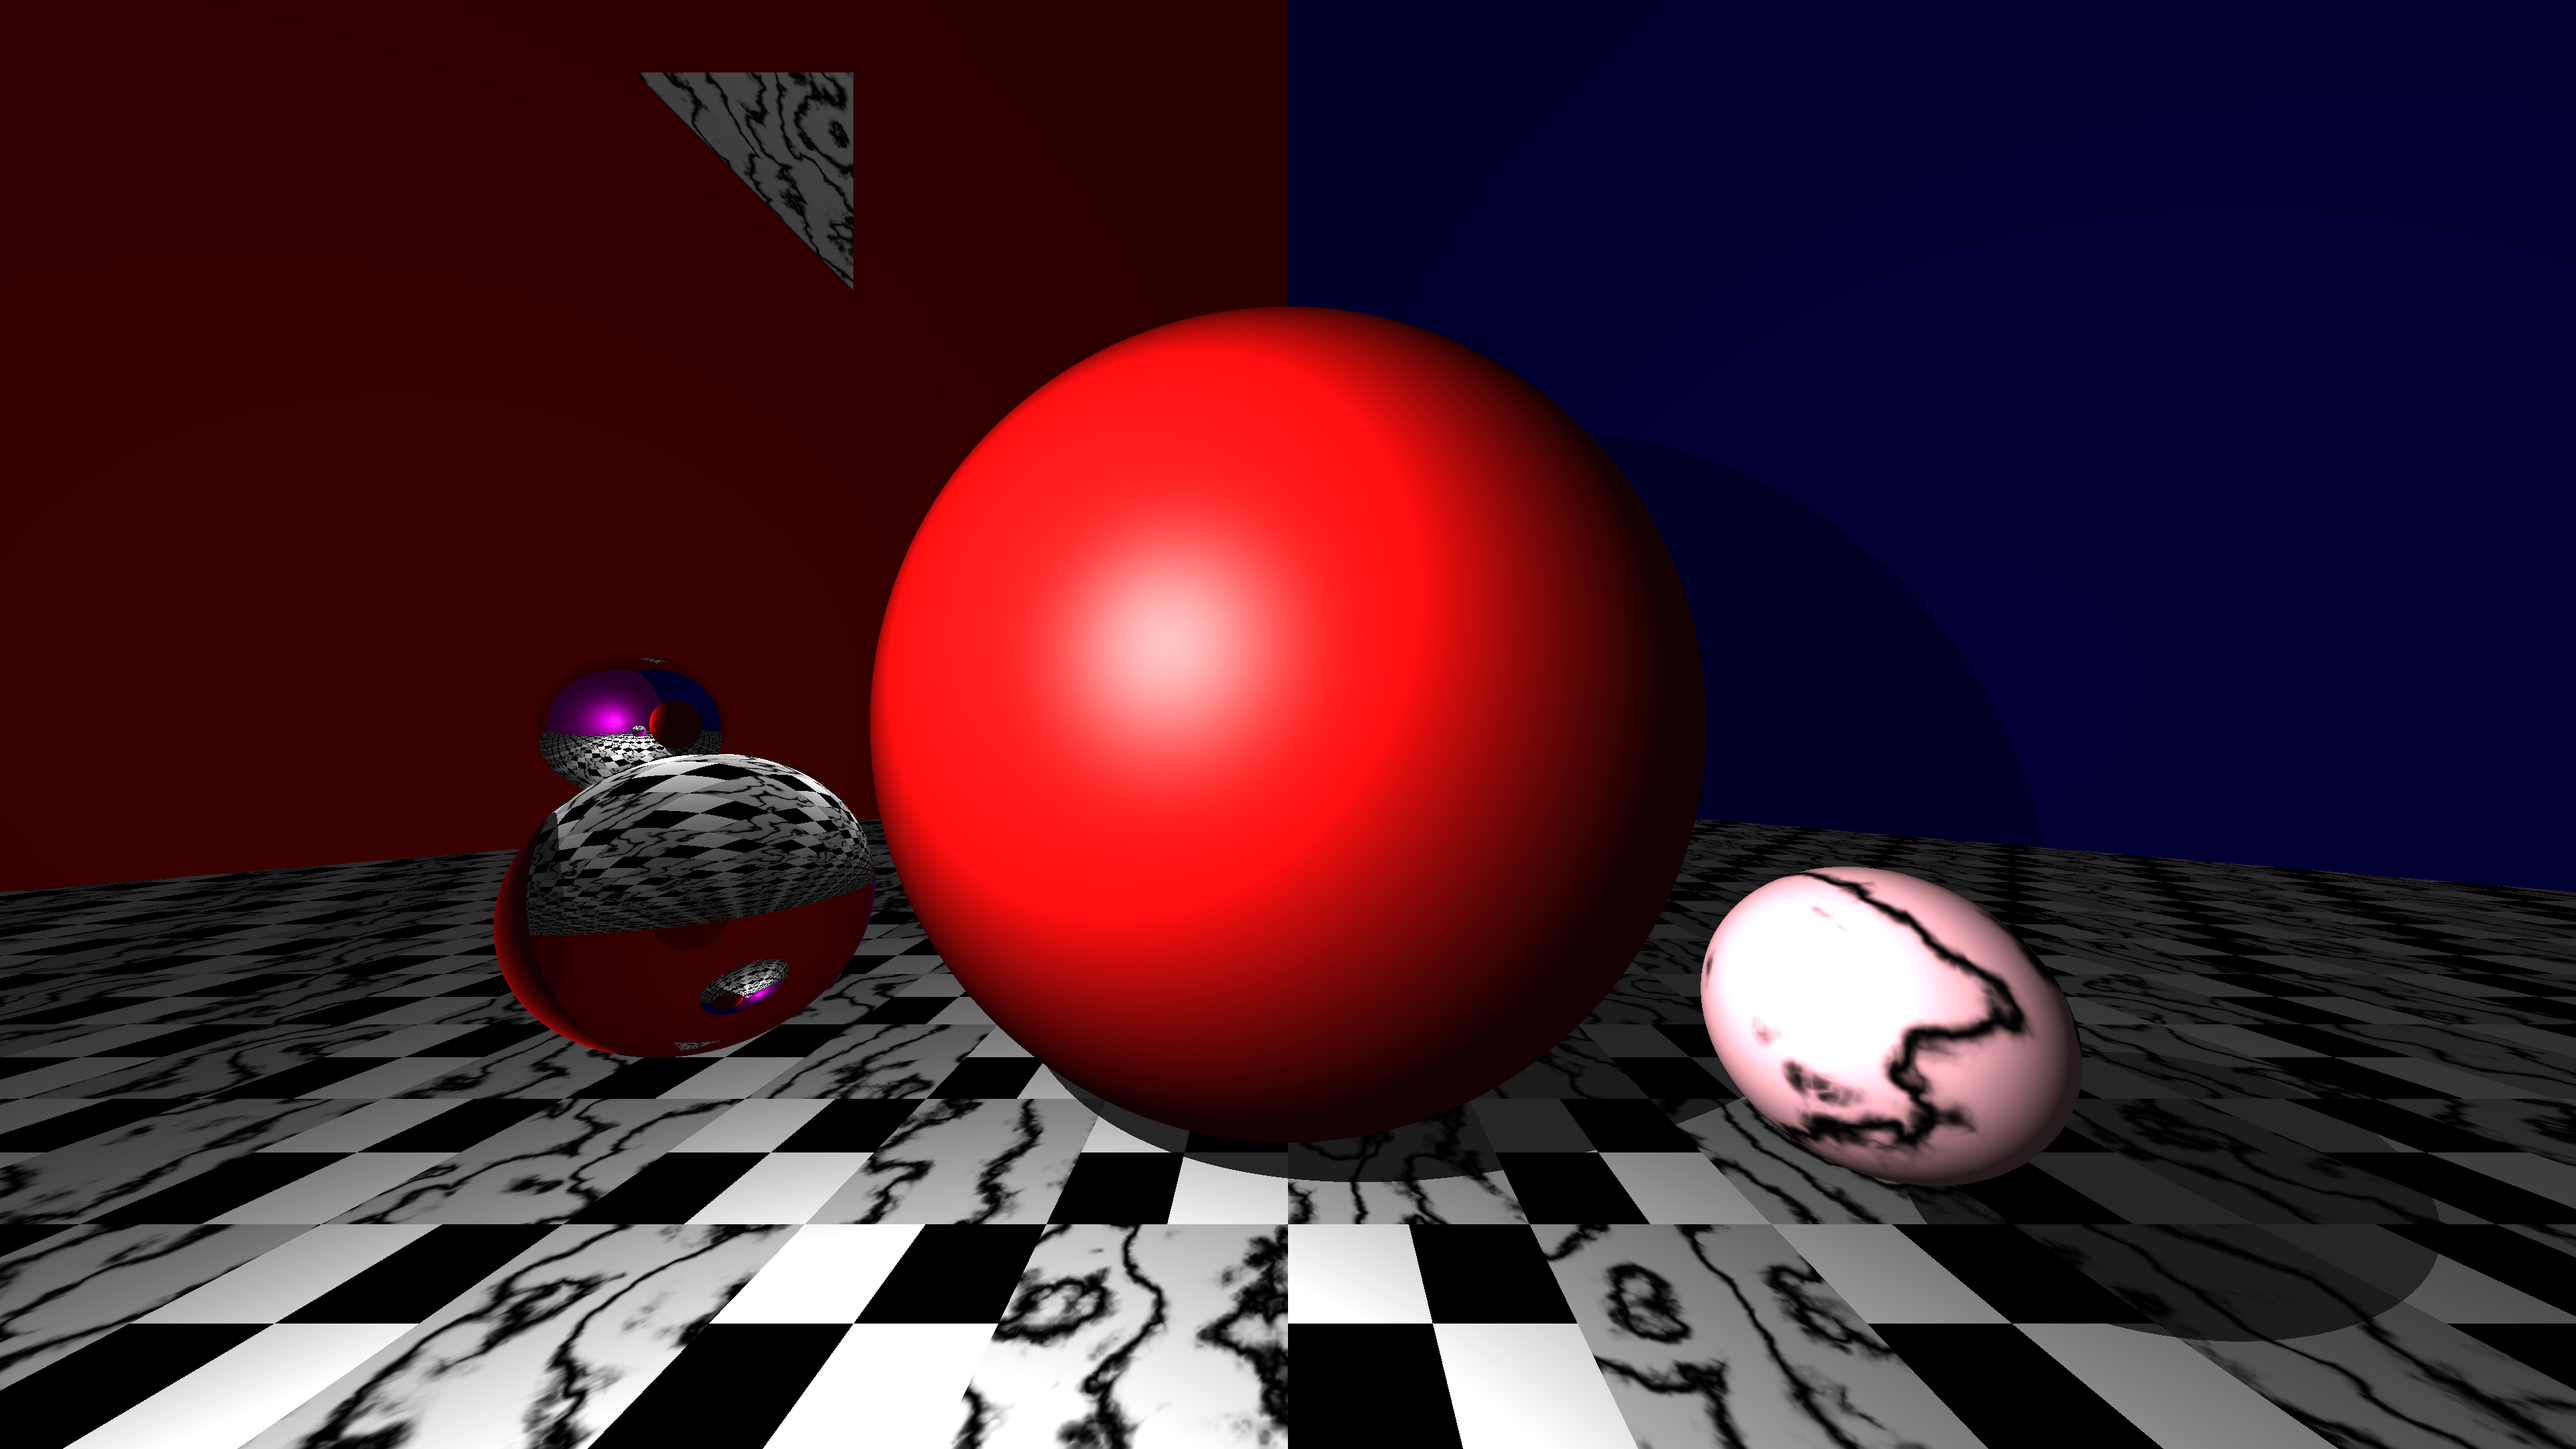
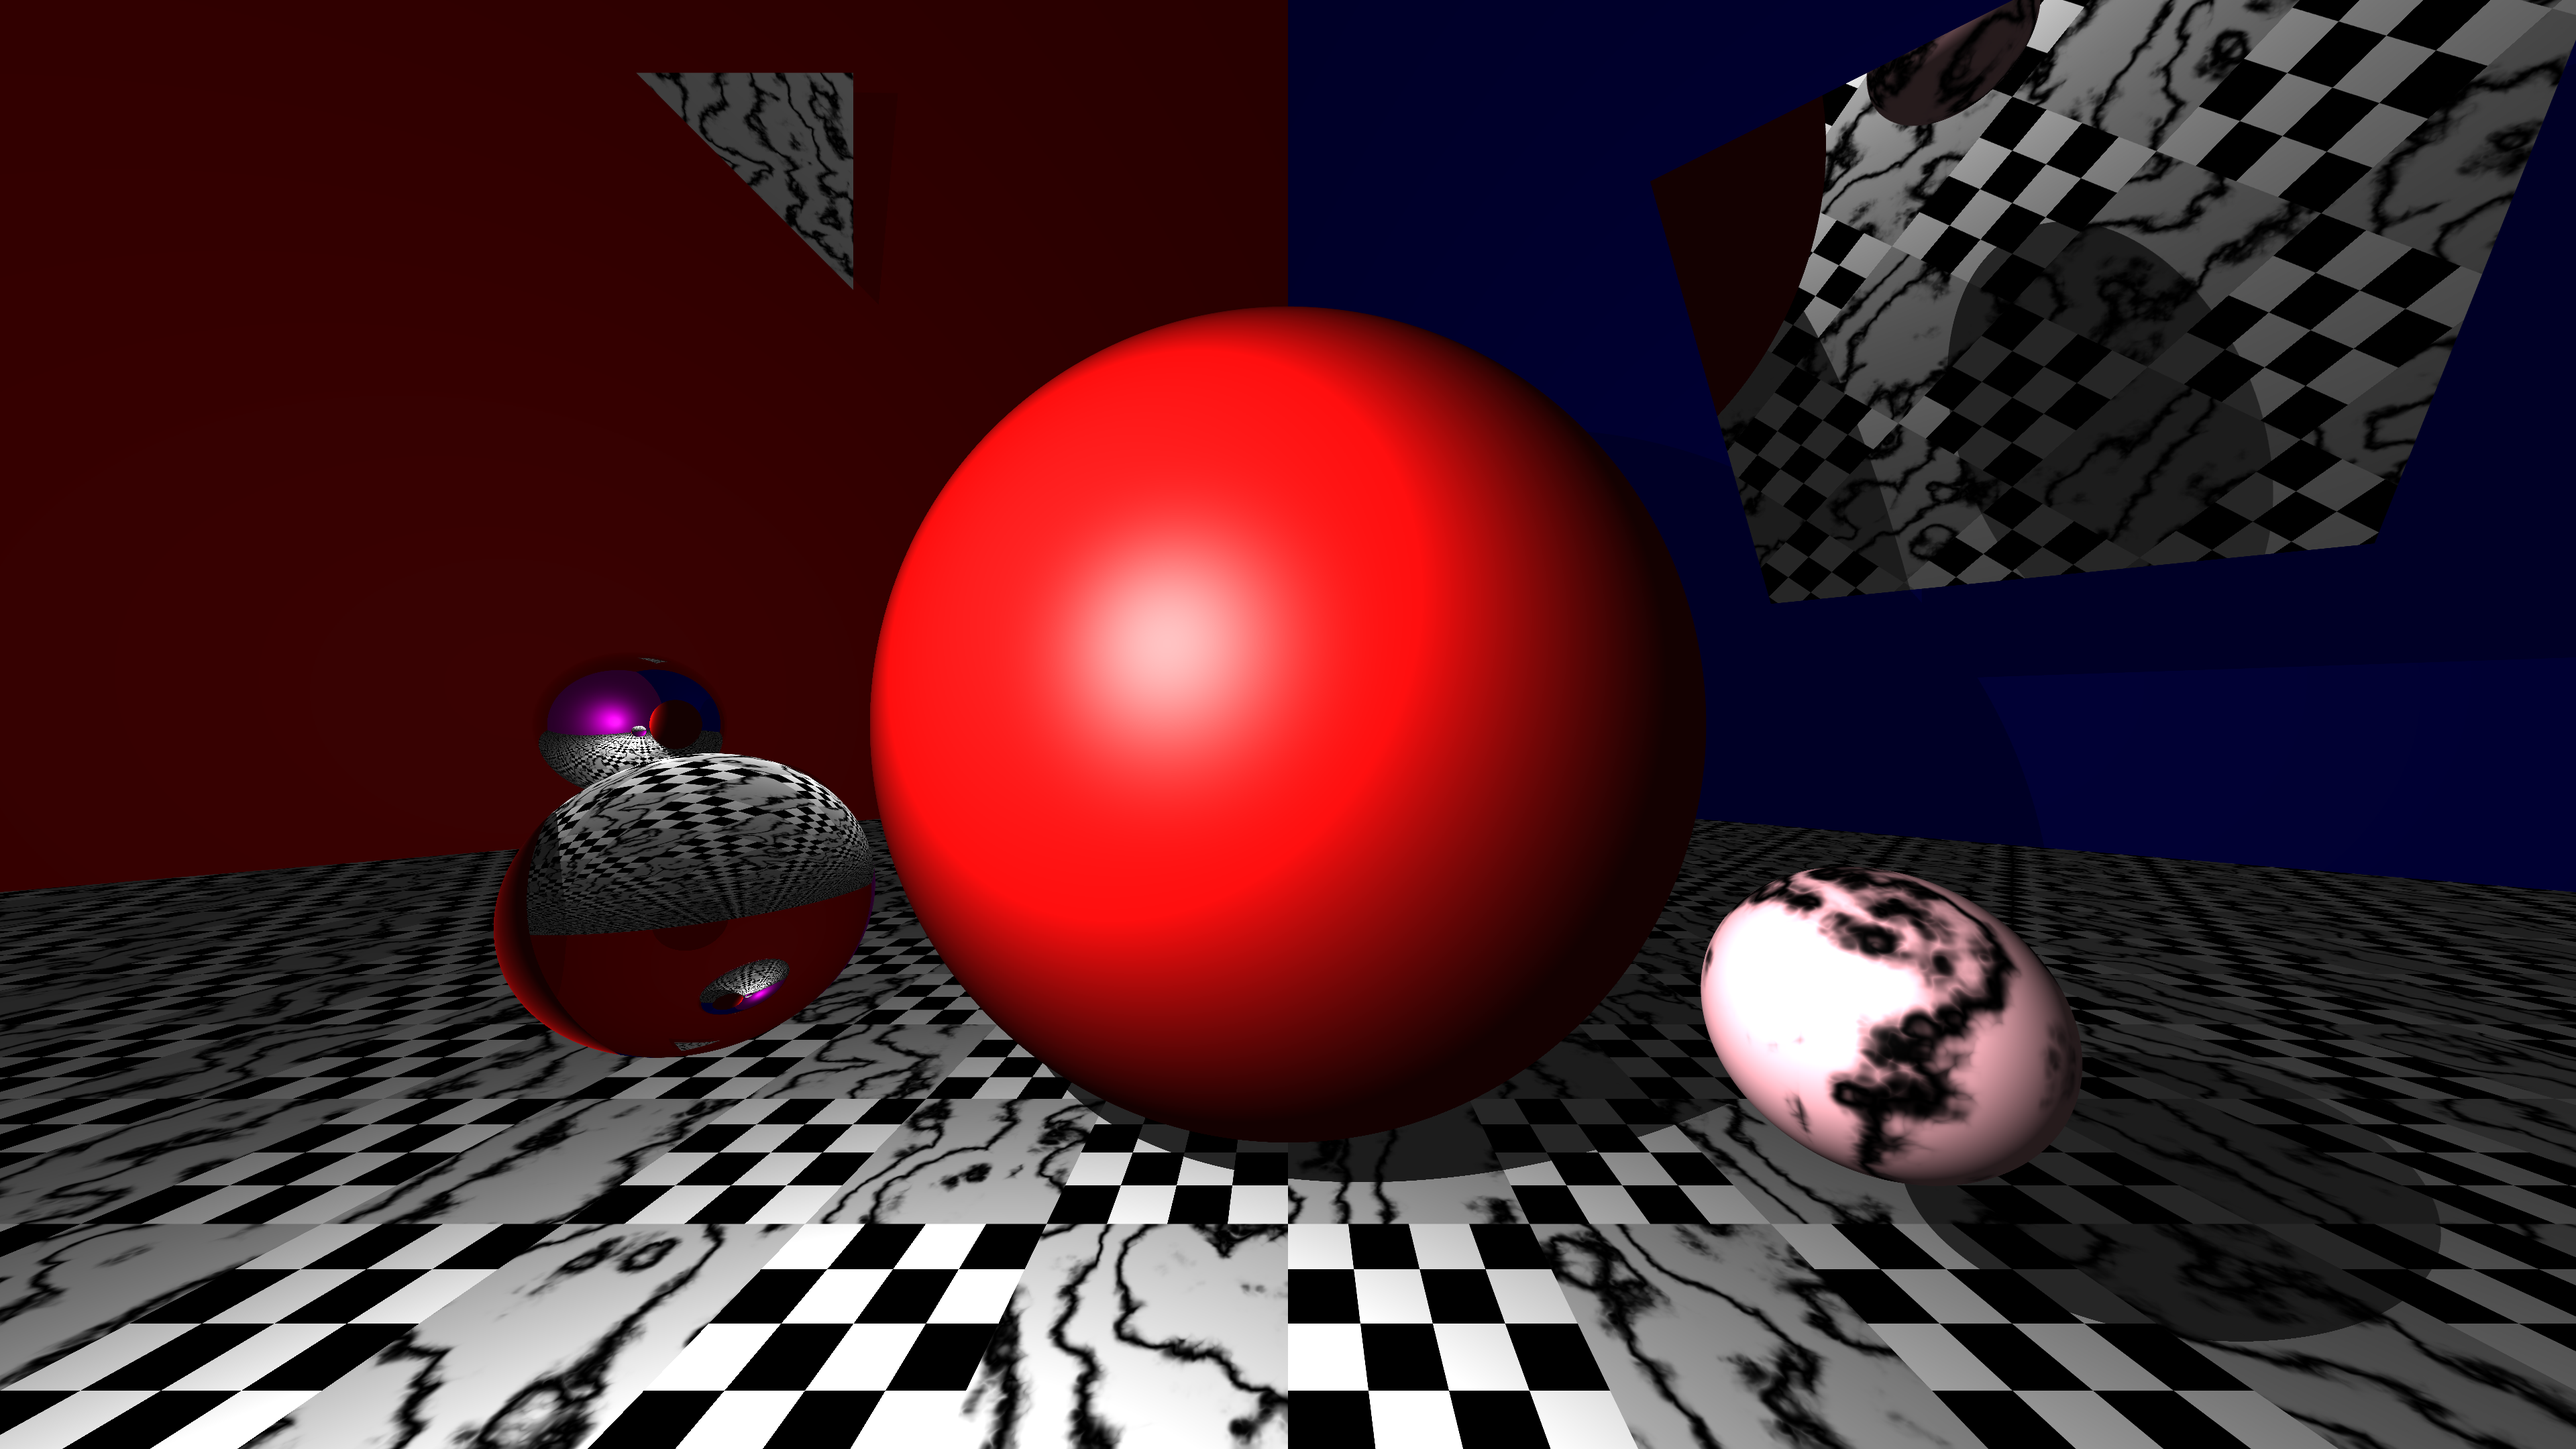
add rectangles. need a different approach, using triangles is unmanageable

Changed region(s): [[0.0, 0.4963, 1.0, 1.0], [0.625, 0.0, 1.0, 0.4343], [0.25, 0.031, 0.3438, 0.1861]]

diff --git a/src/tracer/object.rs b/src/tracer/object.rs
@@ -19,13 +19,51 @@ pub trait Object: Sync {
 
 /* FIGURE OUT BEING INSIDE. CANT BE INSIDE PLANES OR TRIANGLES. (OR RECTANGLES)*/
 
+pub struct Rectangle {
+    tria: (Triangle, Triangle),
+    material: Material,
+}
+
+impl Rectangle {
+    /* assume it actually is a rectangle */
+    pub fn new(a: DVec3, b: DVec3, c: DVec3, d: DVec3, m: Material)
+               -> Box<Self>
+    {
+        /* figure out the correct order of points... */
+        let t1 = Triangle::new(a, b, c, Material::Blank);
+        let t2 = Triangle::new(a, d, c, Material::Blank);
+        Box::new(Self {
+            tria: (*t1, *t2),
+            material: m,
+        })
+    }
+}
+
+impl Object for Rectangle {
+    fn material(&self) -> &Material {
+        &self.material
+    }
+
+    fn normal_at(&self, p: DVec3) -> DVec3 {
+        self.tria.0.normal_at(p)
+    }
+
+    fn hit(&self, r: &Ray) -> Option<Hit> {
+        self.tria.0.hit(r).or_else(|| self.tria.1.hit(r))
+            .and_then(|mut h: Hit| {
+                h.object = self;
+                Some(h)
+            })
+    }
+}
+
 /* barycentir interpolation ~ different texture at each point of triangle */
 /* normal inside?? */
 pub struct Triangle {
     a: DVec3,
     b: DVec3,
     c: DVec3,
-    n: DVec3,
+    norm: DVec3,
     material: Material,
 }
 
@@ -38,7 +76,7 @@ impl Triangle {
             a: a,
             b: b,
             c: c,
-            n: norm,
+            norm: norm,
             material: m,
         })
     }
@@ -47,7 +85,7 @@ impl Triangle {
 impl Object for Triangle {
     fn material(&self) -> &Material { &self.material }
 
-    fn normal_at(&self, _p: DVec3) -> DVec3 { self.n }
+    fn normal_at(&self, _p: DVec3) -> DVec3 { self.norm }
 
     /* barycentric triangle intersection with Cramer's rule */
     /* some bug here that makes the order of points matter, in matrix stuff? */

diff --git a/src/tracer/scene.rs b/src/tracer/scene.rs
@@ -1,6 +1,6 @@
 use crate::perlin::Perlin;
 use crate::DVec3;
-use crate::tracer::object::{Object, Sphere, Plane, Triangle};
+use crate::tracer::object::{Object, Sphere, Plane, Triangle, Rectangle};
 use crate::tracer::hit::Hit;
 use crate::tracer::ray::Ray;
 use crate::tracer::material::Material;
@@ -64,7 +64,7 @@ impl Scene {
                         Box::new(Texture::Checkerboard(
                             Box::new(Texture::Solid(DVec3::ZERO)),
                             Box::new(Texture::Solid(DVec3::ONE)),
-                            2.0,
+                            4.0,
                         )),
                         /* share same perlin between all textures?
                          * could make cool checkers that way */
@@ -79,6 +79,13 @@ impl Scene {
                     DVec3::new(3.0, 0.0, -3.0),
                     DVec3::new(-1.0, 0.0, 1.0),
                     Material::Phong(Texture::Solid(DVec3::new(0.0, 0.0, 1.0))),
+                ),
+                Rectangle::new(
+                    DVec3::new(1.2, 0.2, -0.8),
+                    DVec3::new(0.8, 0.6, -0.4),
+                    DVec3::new(0.4, 0.6, -0.8),
+                    DVec3::new(0.8, 0.2, -1.2),
+                    Material::Mirror,
                 ),
                 // left
                 Plane::new(

diff --git a/src/tracer/material.rs b/src/tracer/material.rs
@@ -11,6 +11,7 @@ pub enum Material {
     Phong(Texture),
     Mirror,
     Glass,
+    Blank, // used for recursive objects. make translucent?
 }
 
 impl Material {

diff --git a/readme.md b/readme.md
@@ -7,9 +7,7 @@ Things that could be done:
 - acceleration structures
 - anti-aliasing (currently 4xSSAA)
   - just set random sample n per pixel in CLI
-- rectangle objects
-- (triangle objects)
-  - (mesh objects)
+- rectangles and boxes
 - multiple lights
   - different kinds of light
     - surface
